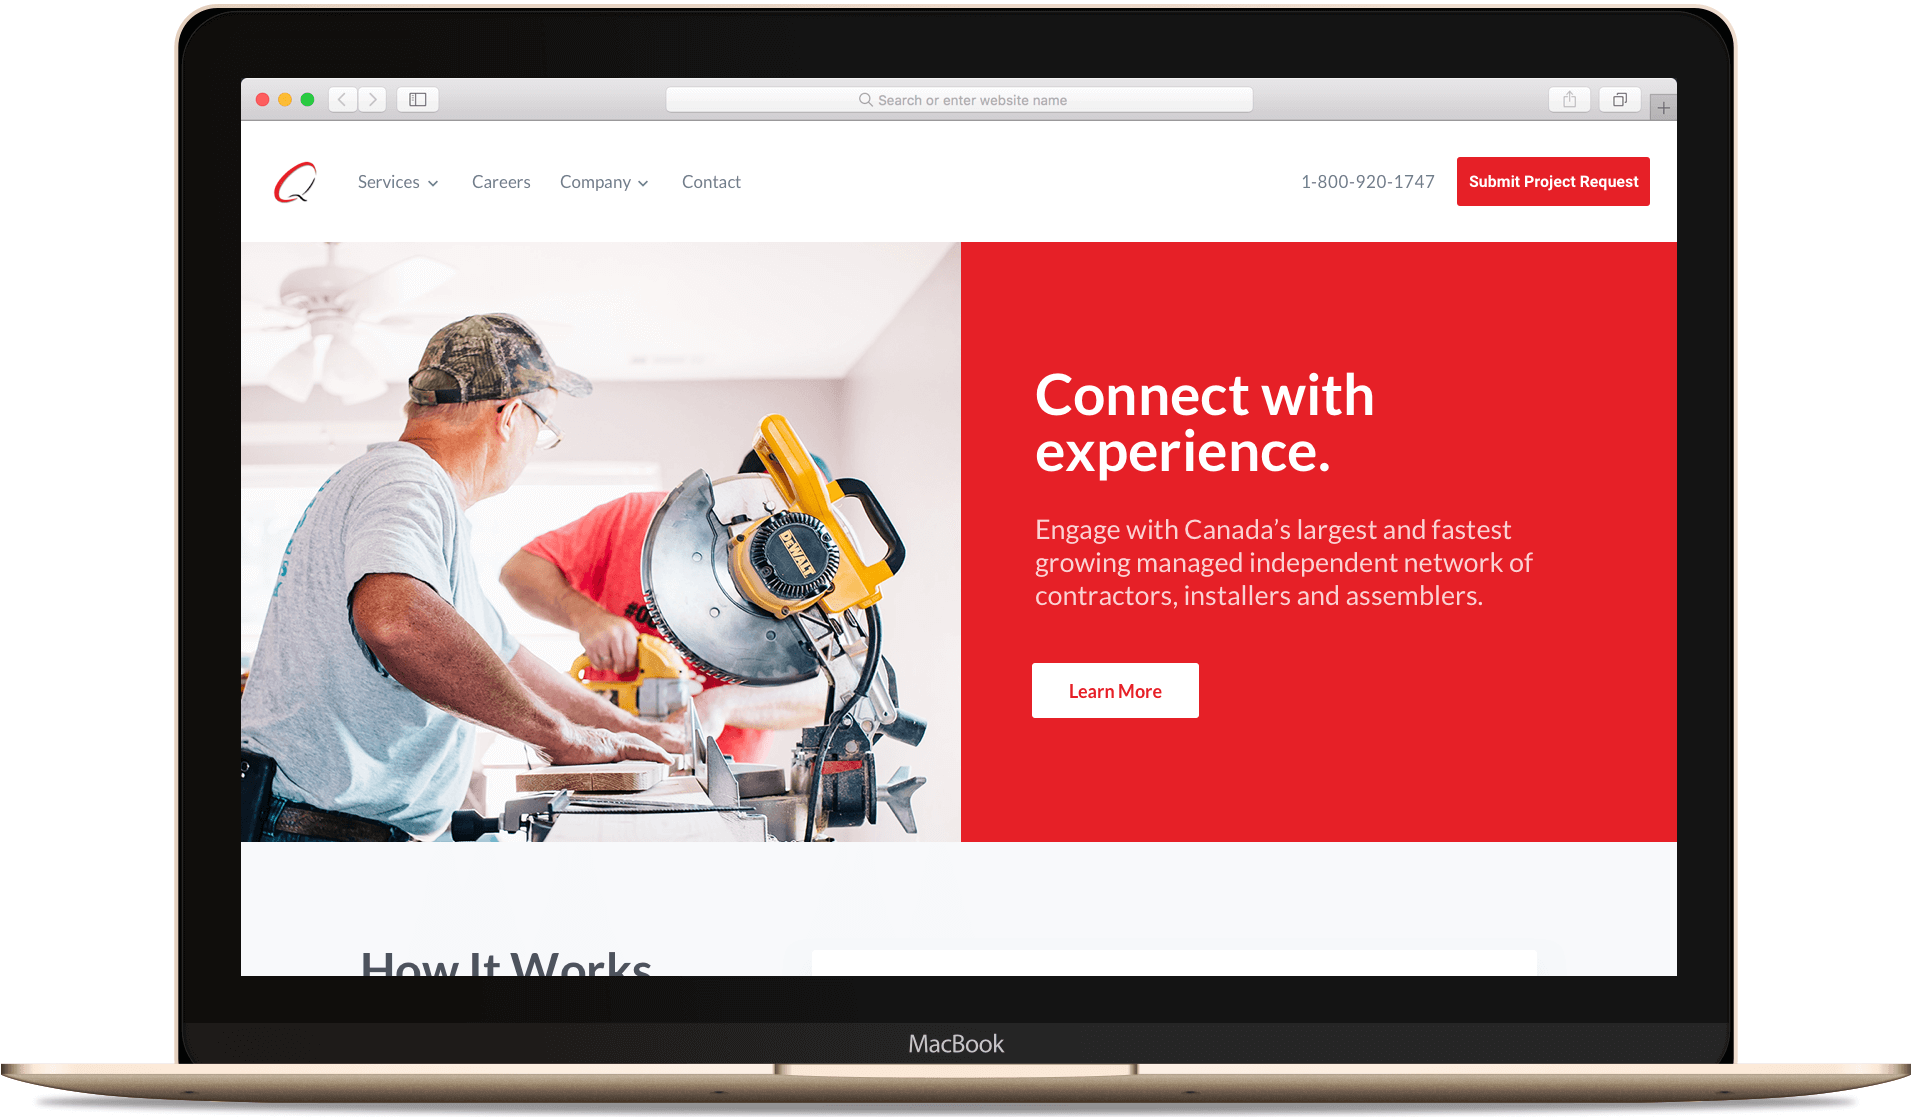
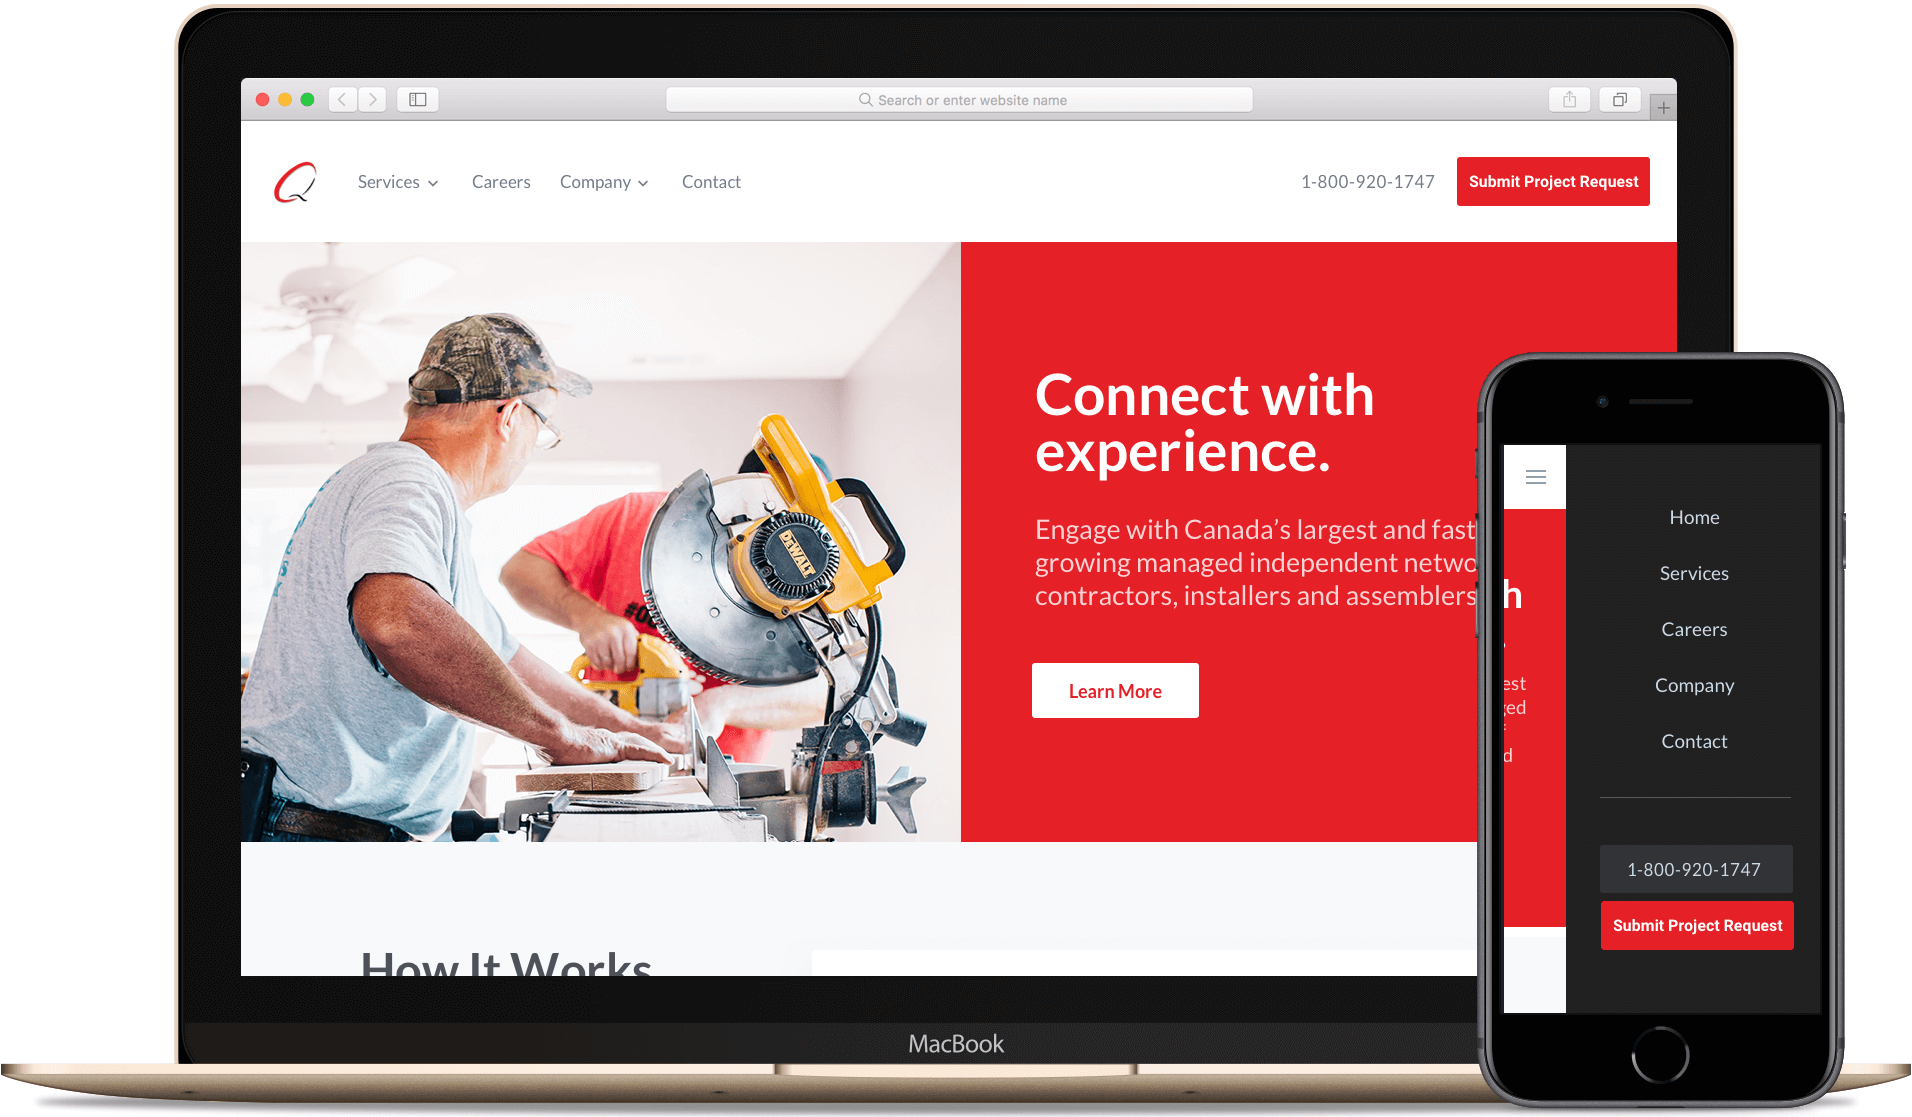
Add app stuff to the project

Changed region(s): [[0.7714, 0.3044, 0.9874, 1.0]]

diff --git a/projects/quickcontractors.html b/projects/quickcontractors.html
@@ -48,26 +48,45 @@ light_header: true
   </div>
 </section>
 
-<section class="project--centered has-no-padding-bottom">
+<section class="project--centered">
   <div class="project__description">
     <h3 class="project__name">
-      Mobile Header
+    App Home
     </h3>
+    <p class="project__body">
+      Try the <a href="https://goo.gl/g4HPam" target="_blank">prototype</a>
+    </p>    
   </div>
   <div class="project__image">
-    <img src="/assets/img/projects/quickcontractors/mobile-header.png" alt="Quick Contractors mobile mockup" class="device--mobile responsive-image">
+    <img src="/assets/img/projects/quickcontractors/app-home.png" alt="Quick Contractors mobile app mockup" class="device--mobile responsive-image">
   </div>
 </section>
 
+<section class="project--centered">
+  <div class="project__description">
+    <h3 class="project__name">
+    App Jobs
+    </h3>
+    <p class="project__body">
+      Try the <a href="https://goo.gl/g4HPam" target="_blank">prototype</a>
+    </p> 
+  </div>
+  <div class="project__image">
+    <img src="/assets/img/projects/quickcontractors/app-my-jobs.png" alt="Quick Contractors mobile app mockup" class="device--mobile responsive-image">
+  </div>
+</section>
 
 <section class="project--centered has-no-padding-bottom">
   <div class="project__description">
     <h3 class="project__name">
-    Mobile Menu
+    App Single Job
     </h3>
+    <p class="project__body">
+      Try the <a href="https://goo.gl/g4HPam" target="_blank">prototype</a>
+    </p> 
   </div>
   <div class="project__image">
-    <img src="/assets/img/projects/quickcontractors/mobile-menu.png" alt="Quick Contractors mobile mockup" class="device--mobile responsive-image">
+    <img src="/assets/img/projects/quickcontractors/app-single-job.png" alt="Quick Contractors mobile app mockup" class="device--mobile responsive-image">
   </div>
 </section>
 
